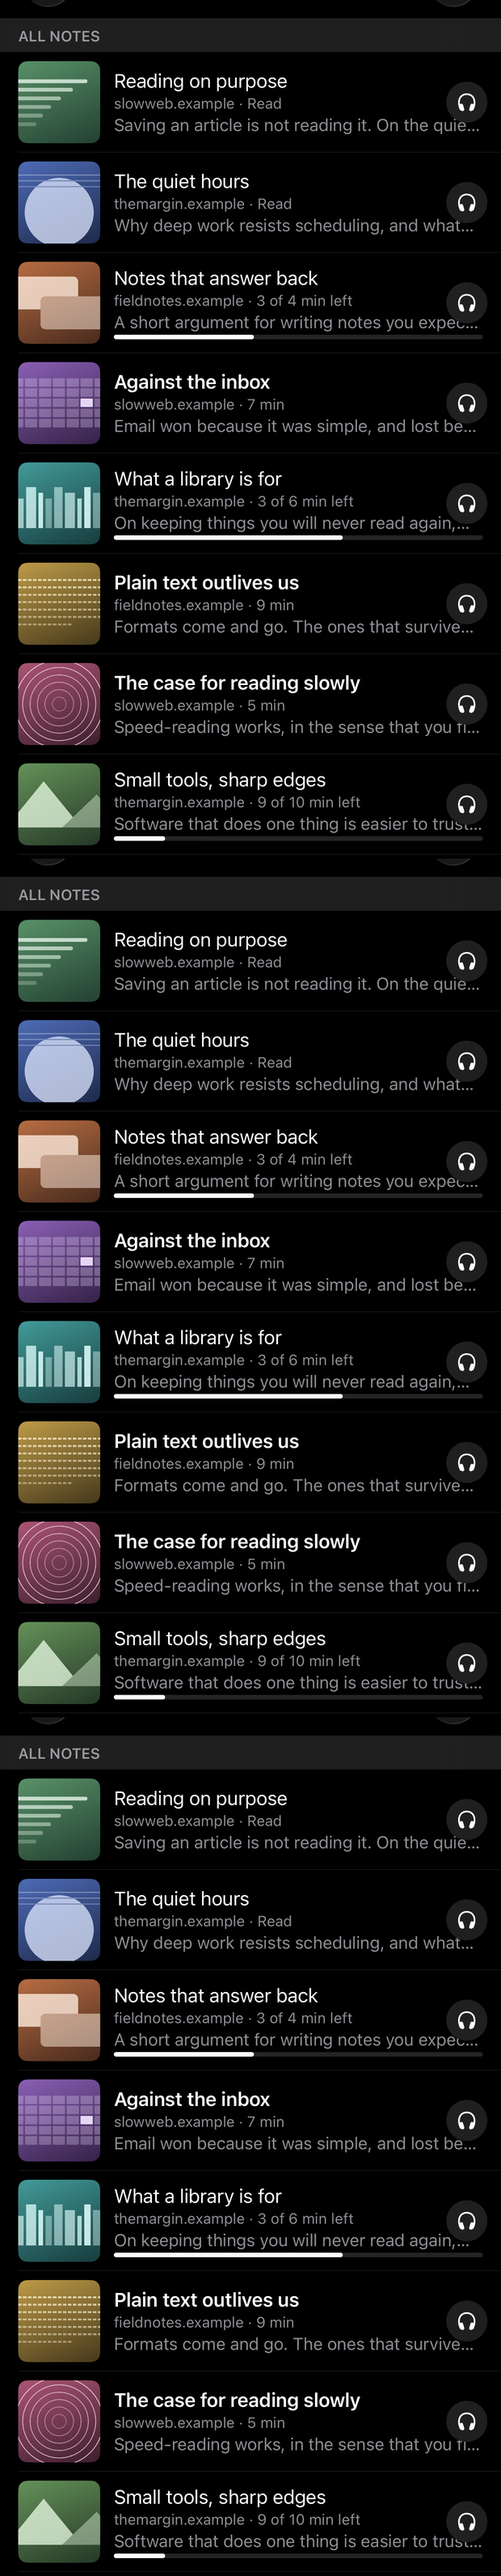
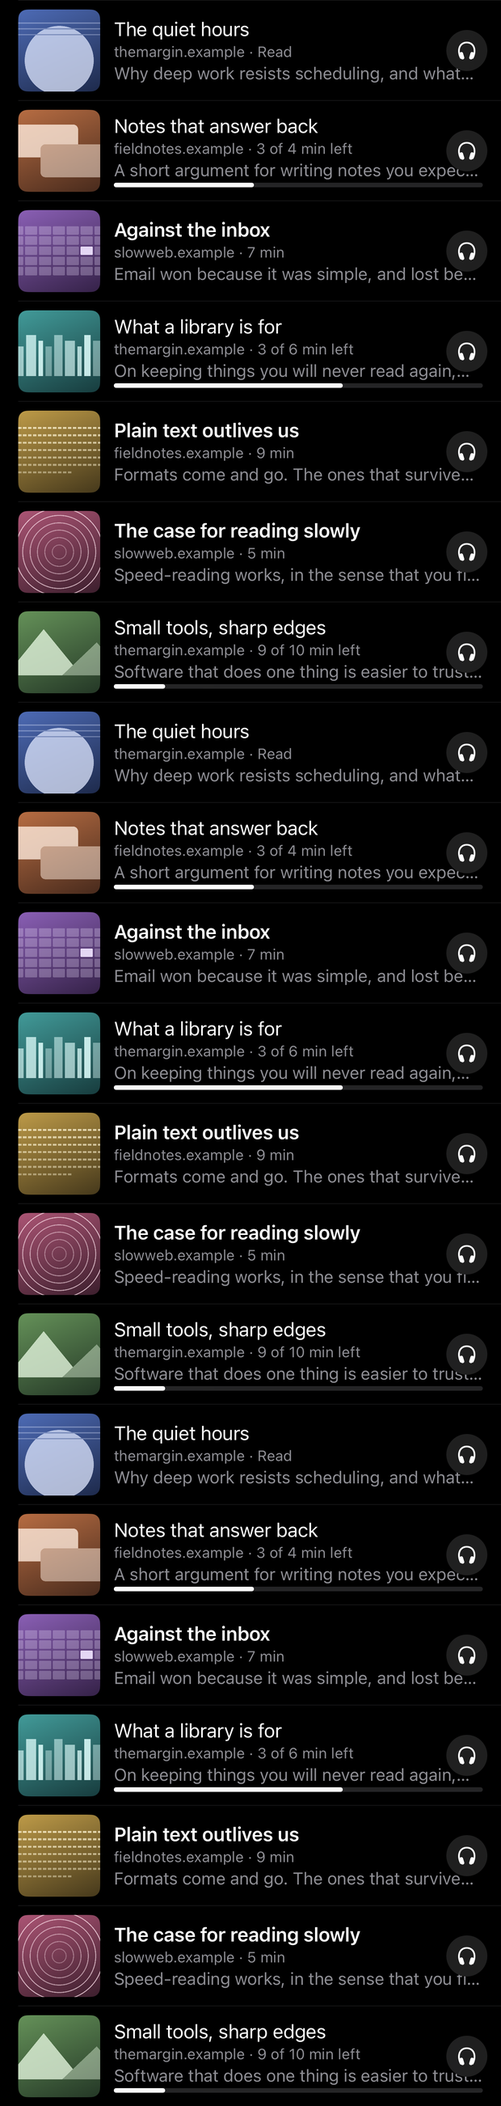
Fix the hero properly, having actually looked at it this time
Opened the page in a browser and measured, which found in one step what
four rounds of guessing had not.

**The rows were stretched 1.48x.** The strip rendered at 420x3185 when its
natural ratio gives 420x2158: the height attribute was being applied while
CSS shrank the width, because .hero__window img set width:100% and never
set height:auto. That is the distortion.

**The 'ALL NOTES' header reappeared every loop**, so the list read as
restarting rather than continuing. The strip is cut below the header now,
and on a real row boundary — 700px, pitch 264 — so the seam joins one row
to the next instead of splitting one.

**The frozen 'Attentic' row** was the bottom band: every crop containing
the island also contains the rows behind it, because in a full list there
is always a row there. The band is gone; the list fades out at the
device's edge instead.

**The hard line under the top bar** was the backdrop-filter's boundary.
The band is masked now, so the blur and the tint fade out together.

Also: the headline was wrapping to five lines of one or two words, and the
device was 912px tall — past the fold, and jammed against the sticky
header. 300px wide, capped against the viewport height, with room above.

Verified at desktop width in Chrome and on an iPhone 17 Pro Max simulator
before pushing, rather than after.

Claude-Session: https://claude.ai/code/session_01C4iVbbDBkvTMLUmM9oHsWD

diff --git a/index.html b/index.html
@@ -64,11 +64,11 @@
   :focus-visible { outline:2px solid var(--ink); outline-offset:3px; border-radius:3px; }
 
   /* Hero: one device, large, running off the right edge. */
-  .hero { display:grid; grid-template-columns:minmax(0,1fr) minmax(0,420px);
-          gap:40px; align-items:center; padding-block:28px 20px; }
-  .hero__copy { display:flex; flex-direction:column; gap:22px; max-width:22ch; }
-  .hero h1 { max-width:14ch; }
-  .hero p.lede { font-size:1.16rem; color:var(--muted); max-width:34ch; }
+  .hero { display:grid; grid-template-columns:minmax(0,1.25fr) minmax(0,300px);
+          gap:52px; align-items:center; padding-block:56px 20px; }
+  .hero__copy { display:flex; flex-direction:column; gap:22px; }
+  .hero h1 { max-width:12ch; }
+  .hero p.lede { font-size:1.16rem; color:var(--muted); max-width:40ch; }
   .cta { display:flex; gap:12px; flex-wrap:wrap; align-items:center; }
   .btn { display:inline-flex; align-items:center; text-decoration:none; background:var(--ink);
          color:var(--ink-invert); font-weight:600; padding:12px 24px; border-radius:999px;
@@ -89,14 +89,15 @@
      first attempt pasted opaque crops on top, so content vanished behind a
      solid block instead of passing under a blurred bar, and the cut where
      the window ended left a hard edge at the bottom. */
-  .hero__device { position:relative; width:100%; aspect-ratio:620 / 1347;
+  .hero__device { position:relative; width:100%; max-width:min(300px, 68vh / 2.173);
+                  aspect-ratio:620 / 1347; margin-inline:auto;
                   border-radius:12.5% / 5.75%; overflow:hidden; background:#000;
                   box-shadow:0 24px 70px rgba(0,0,0,.28); isolation:isolate; }
   .hero__window { position:absolute; inset:0; overflow:hidden; z-index:1; }
   /* Starts just below the nav bar, as the list does, and is three listings
      tall so translating one listing's worth never runs the bottom dry. */
-  .hero__window img { position:absolute; top:10.47%; left:0; width:100%; display:block;
-                      animation:drift 26s linear infinite; }
+  .hero__window img { position:absolute; top:10.47%; left:0; width:100%; height:auto;
+                      display:block; animation:drift 26s linear infinite; }
   @keyframes drift { from { transform:translateY(0); } to { transform:translateY(-33.3333%); } }
 
   /* The bars: a real blur of whatever is behind, a slight scrim so the glyphs
@@ -105,14 +106,17 @@
                 backdrop-filter:blur(18px) saturate(140%);
                 -webkit-backdrop-filter:blur(18px) saturate(140%); }
   .hero__band--top { top:0; background:linear-gradient(to bottom,
-                     rgba(10,10,10,.82) 60%, rgba(10,10,10,.55) 100%); }
-  /* Opaque, and deliberately so — see the note in make-demo images. Its
-     surround is the app's near-black ground on a black device, so it reads as
-     the screen ending rather than as a band laid over it. */
-  .hero__band--bottom { bottom:0; backdrop-filter:none; -webkit-backdrop-filter:none; }
+                     rgba(10,10,10,.88) 55%, rgba(10,10,10,0) 100%);
+                     -webkit-mask-image:linear-gradient(to bottom, #000 62%, transparent 100%);
+                     mask-image:linear-gradient(to bottom, #000 62%, transparent 100%); }
   .hero__band img { display:block; width:100%; height:auto; }
 
 
+  /* The list fades out rather than being cut, which is what the device's own
+     bottom edge does to it. */
+  .hero__device::after { content:""; position:absolute; inset:auto 0 0 0; height:14%;
+                         background:linear-gradient(to top, #000 22%, transparent);
+                         z-index:3; pointer-events:none; }
   @media (prefers-reduced-motion:reduce) { .hero__window img { animation:none; } }
   /* Alternating feature rows: one claim, one detail. */
   .feature { display:grid; grid-template-columns:repeat(auto-fit,minmax(280px,1fr));
@@ -204,18 +208,14 @@
         <div class="hero__window">
           <picture>
             <source srcset="/img/hero-strip.webp" type="image/webp">
-            <img src="/img/hero-strip.png" alt="" width="620" height="3185">
+            <img src="/img/hero-strip.png" alt="" width="620" height="2604">
           </picture>
         </div>
         <picture class="hero__band hero__band--top">
           <source srcset="/img/hero-top.webp" type="image/webp">
           <img src="/img/hero-top.png" alt="" width="620" height="141">
         </picture>
-        <picture class="hero__band hero__band--bottom">
-          <source srcset="/img/hero-bottom.webp" type="image/webp">
-          <img src="/img/hero-bottom.png" alt="" width="620" height="173">
-        </picture>
-      </div>
+</div>
     </section>
 
     <section class="feature">
